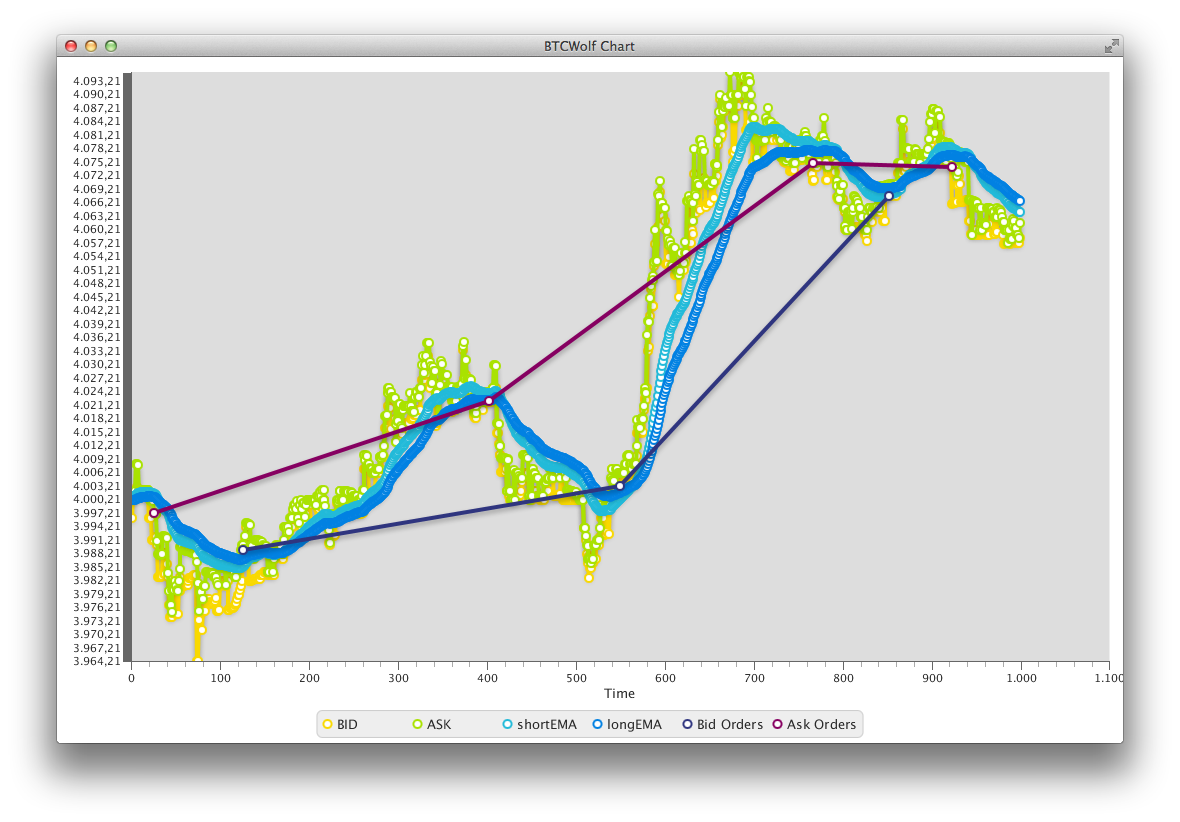
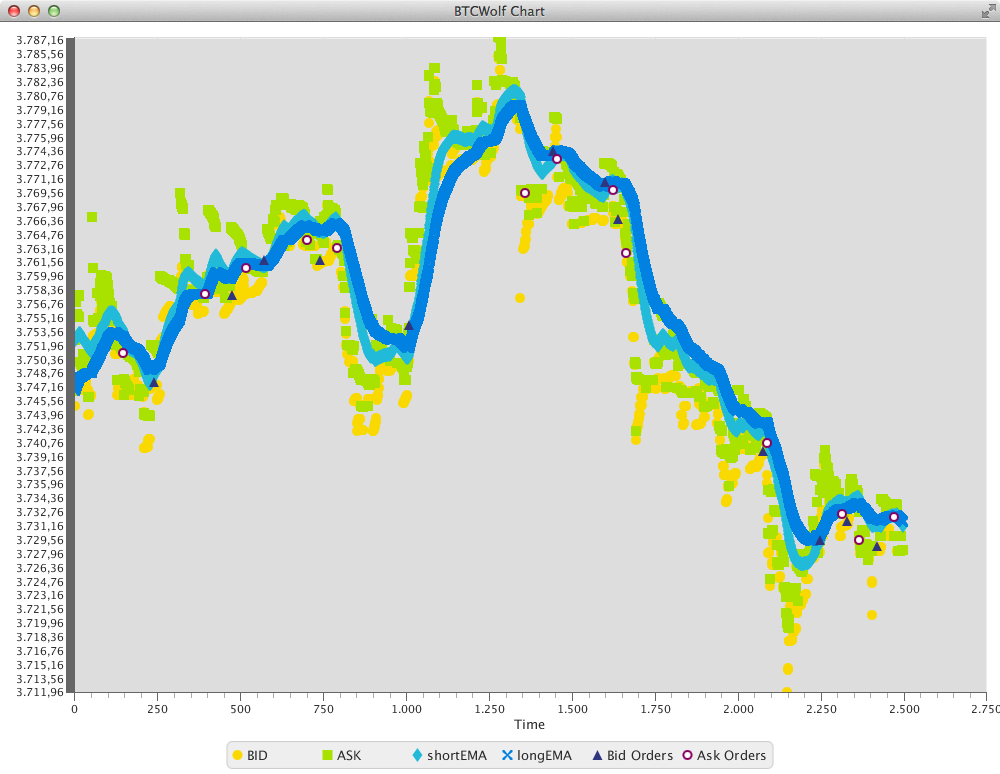
improved logging config file

diff --git a/src/org/btcwolf/strategy/impl/ExponentialMovingAverageStrategy.java b/src/org/btcwolf/strategy/impl/ExponentialMovingAverageStrategy.java
@@ -39,8 +39,8 @@ import static org.btcwolf.agent.AbstractAgent.FAILED_ORDER;
 
 public class ExponentialMovingAverageStrategy extends TradingStrategyMonitorDecorator {
 
-    private static final int MAX_TICKERS = 100; //about 2h
-    private static final int MIN_TICKERS = 60; //about 16 mins
+    private static final int MAX_TICKERS = 150; //about 2h
+    private static final int MIN_TICKERS = 80; //about 16 mins
 
     private static final int MIN_TICKERS_BETWEEN_ORDERS = 12;
 
@@ -155,21 +155,21 @@ public class ExponentialMovingAverageStrategy extends TradingStrategyMonitorDeco
                     && (lastAsk == null || !onlyWin || lastAsk.compareTo(ticker.getBid()) == 1)
                     && traderAgent.getCurrencyBalance().compareTo(valueOf(MIN_AVAILABLE_CNY_TO_OP)) == 1) {
 
-                BigDecimal price = ticker.getBid().add(PERCENTAGE_OF_PRICE_TO_ADD_IN_ORDER.multiply(ticker.getBid()));
+                BigDecimal price = ticker.getBid();
                 amount = traderAgent.getCurrencyBalance().divide(price, 40, ROUND_DOWN);
                 logger.info("About to order BID price [" + price + "] last ask was [" + lastBid + "] amount [" + amount + "]");
-                lastBid = price;
                 placeOrder(type, amount, price);
+                lastBid = price;
 
-            } else if (type == OrderType.ASK
+            } else if (type == ASK
                     && (lastBid == null || !onlyWin || lastBid.compareTo(ticker.getAsk()) == -1)
                     && traderAgent.getBitCoinBalance().compareTo(valueOf(MIN_AVAILABLE_BTC_TO_OP)) == 1) {
 
-                BigDecimal price = ticker.getAsk().subtract(PERCENTAGE_OF_PRICE_TO_ADD_IN_ORDER.multiply(ticker.getAsk()));
+                BigDecimal price = ticker.getAsk();
                 amount = traderAgent.getBitCoinBalance();
                 logger.info("About to order ASK price [" + price + "] last ask was [" + lastAsk + "] amount [" + amount + "]");
-                lastAsk = price;
                 placeOrder(type, amount, price);
+                lastAsk = price;
 
             }
         }
@@ -178,10 +178,10 @@ public class ExponentialMovingAverageStrategy extends TradingStrategyMonitorDeco
     private OrderType getOrderType(Ticker ticker) {
         int highers = 0;
         int lowers = 0;
-        for (BigDecimal bigDecimal : historicShortEMA) {
-            if (shortEMA.compareTo(bigDecimal) == 1) {
+        for (BigDecimal historicShortEMAValue : historicShortEMA) {
+            if (shortEMA.compareTo(historicShortEMAValue) == 1) {
                 lowers++;
-            } else if (shortEMA.compareTo(bigDecimal) == -1) {
+            } else if (shortEMA.compareTo(historicShortEMAValue) == -1) {
                 highers++;
             }
         }
@@ -191,7 +191,7 @@ public class ExponentialMovingAverageStrategy extends TradingStrategyMonitorDeco
         }
 
         if (highers > lowers) {
-            return OrderType.ASK;
+            return ASK;
         } else if (lowers > highers){
             return BID;
         }
@@ -296,13 +296,13 @@ public class ExponentialMovingAverageStrategy extends TradingStrategyMonitorDeco
                if (myOrder.getLimitPrice().add(MIN_DIFF_WITH_AVERAGE_PRICES_TO_CHANGE_ORDER).compareTo(averageBidPrice) == -1) {
                    logger.info("Canceling limit order [" + myOrder + "] and adding new with price [" + averageBidPrice + "]");
                    traderAgent.cancelLimitOrder(myOrder);
-                   traderAgent.placeOrder(myOrder.getType(), myOrder.getTradableAmount(), averageBidPrice);
+                   placeOrder(myOrder.getType(), myOrder.getTradableAmount(), averageBidPrice);
                }
            } else if (myOrder.getType() == ASK) {
                if (myOrder.getLimitPrice().compareTo(averageAskPrice.add(MIN_DIFF_WITH_AVERAGE_PRICES_TO_CHANGE_ORDER)) == 1) {
                    logger.info("Canceling limit order [" + myOrder + "] and adding new with price [" + averageAskPrice + "]");
                    traderAgent.cancelLimitOrder(myOrder);
-                   traderAgent.placeOrder(myOrder.getType(), myOrder.getTradableAmount(), averageAskPrice);
+                   placeOrder(myOrder.getType(), myOrder.getTradableAmount(), averageAskPrice);
                }
            }
         }

diff --git a/test/org/btcwolf/strategy/ExponentialMovingAverageTradingStrategyTest.java b/test/org/btcwolf/strategy/ExponentialMovingAverageTradingStrategyTest.java
@@ -137,7 +137,7 @@ public class ExponentialMovingAverageTradingStrategyTest {
         int maxIndex = new MarketExchangeAgent(BigDecimal.ZERO, BigDecimal.ZERO).getTickers();
         final Plotting plotting = new Plotting();
         MarketExchangeAgent testerAgent = new MarketExchangeAgent(BigDecimal.valueOf(0), BigDecimal.valueOf(0), plotting);
-        int[] indexes = StrategyTestHelper.getIndexes(1000, maxIndex); //{199, 699 }, {10557, 11057};// {9389, 9689};{12202 , 12502};//
+        int[] indexes = StrategyTestHelper.getIndexes(2500, maxIndex); //{199, 699 }, {10557, 11057};// {9389, 9689};{12202 , 12502};//
         System.out.println("init " + indexes[0] + " end "  + indexes[1] + " total " + maxIndex);
         TestStrategyFactory strategyProvider = new TestStrategyFactory(testerAgent, false);
         strategyProvider.switchStrategy(strategyProvider.buildExponentialMovingAverageStrategy());
